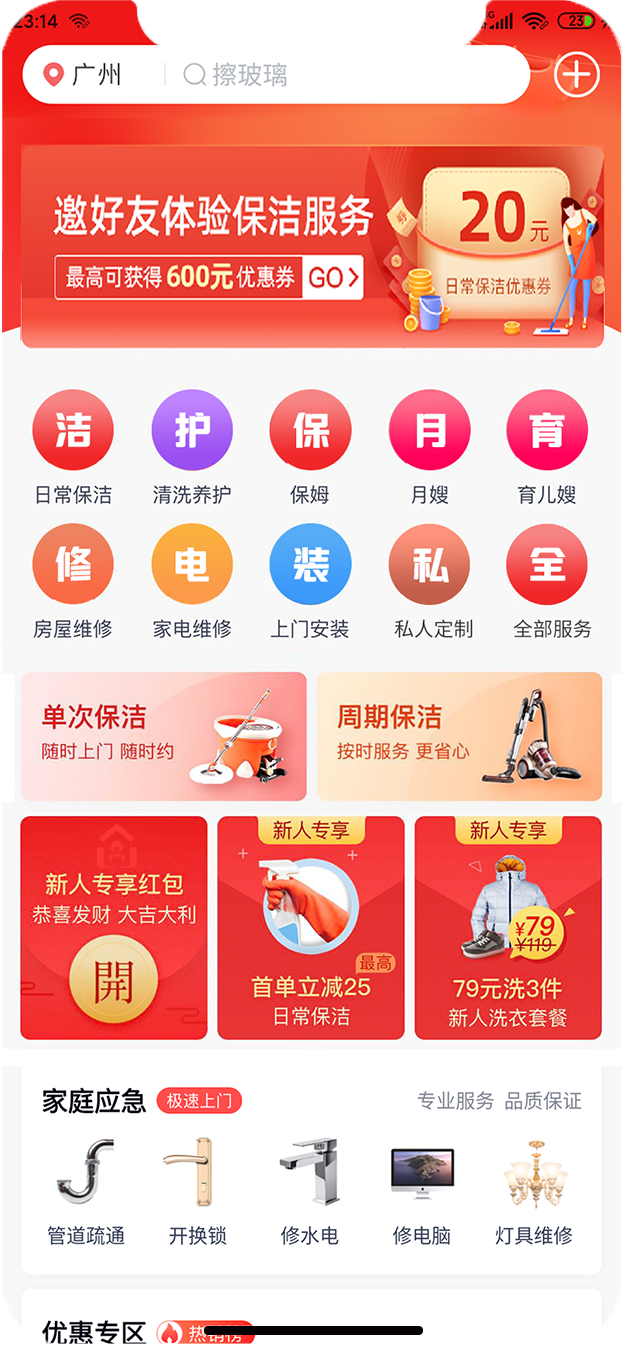
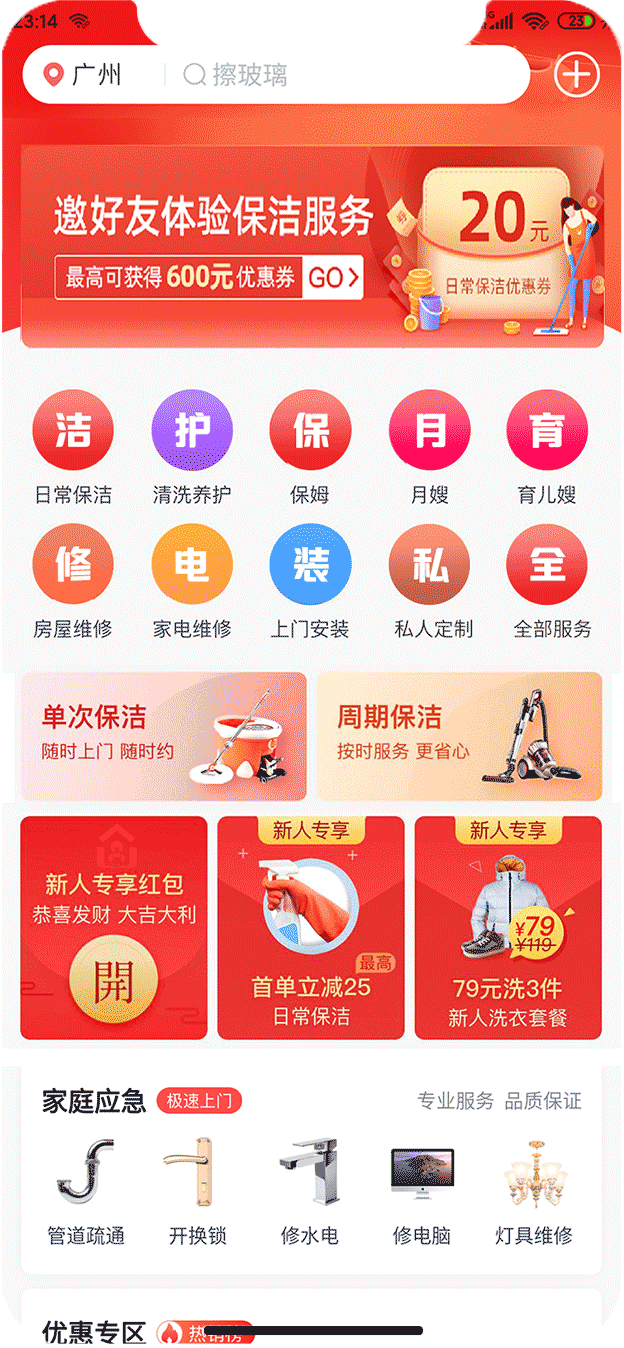
修改大图

diff --git a/src/style/newhome.css b/src/style/newhome.css
@@ -513,7 +513,7 @@ body {
 .iphone-part .iphone-out {
     width: 100%;
     height: 100%;
-    background: url('https://s3plus.sankuai.com/v1/mss_c4375b35f5cb4e678b5b55a48c40cf9d/waimai-c-iweb/%E6%89%8B%E6%9C%BA%E5%A4%96%E5%A3%B32%402x.png');
+    background: url('../static/img/iphone-out.png');
     background-size: 100%;
     position: relative;
 }
@@ -559,7 +559,9 @@ body {
 /* ------------------------------------------------part-4部分 */
 .part-4-container {
     width: 100%;
-    background-image: linear-gradient(-135deg, #FFD161 0%, #FFBD27 100%);
+    /*background-image: linear-gradient(-135deg, #FFD161 0%, #FFBD27 100%);*/
+    background-image: url("../static/img/part-4-bg.png");
+
 }
 
 .part-4 {

diff --git a/src/style/platform.css b/src/style/platform.css
@@ -127,7 +127,7 @@ body {
 
 .m-platform .csr-component .top {
   top: 130px;
-  background: url('../static/img/platform_part1.png') no-repeat;
+  background: url('../static/img/platformPart1.jpg') no-repeat;
   background-size: 100%;
 }
 
